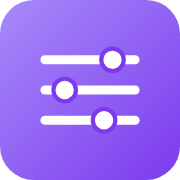
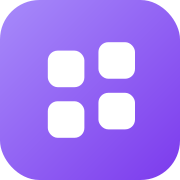
Align console identity with shared ProAppStore brand

diff --git a/web/index.html b/web/index.html
@@ -11,7 +11,7 @@
     <meta name="theme-color" content="#0f172a" media="(prefers-color-scheme: dark)" />
     <meta name="darkreader-lock" />
     <!-- Manifest is injected by vite-plugin-pwa (single source of truth in vite.config.ts). -->
-    <!-- ProAppStore brand mark: purple control-panel glyph (BRAND.md). -->
+    <!-- ProAppStore brand mark: canonical Apps symbol (BRAND.md). -->
     <link rel="icon" href="/favicon.svg" type="image/svg+xml" />
     <link rel="apple-touch-icon" href="/apple-touch-icon.png" />
     <script>
@@ -31,9 +31,9 @@
     <meta property="og:title" content="Creator Console — ProAppStore" />
     <meta property="og:description" content="Manage and build your apps on ProAppStore." />
     <meta property="og:url" content="https://console.proappstore.online/" />
-    <meta property="og:image" content="https://console.proappstore.online/icon-512.png" />
-    <meta name="twitter:card" content="summary" />
-    <meta name="twitter:image" content="https://console.proappstore.online/icon-512.png" />
+    <meta property="og:image" content="https://console.proappstore.online/og-image.png" />
+    <meta name="twitter:card" content="summary_large_image" />
+    <meta name="twitter:image" content="https://console.proappstore.online/og-image.png" />
     <!-- Structured data — exceeds the storefront's head (adopted from PAGS). -->
     <script type="application/ld+json">{"@context":"https://schema.org","@type":"WebApplication","name":"ProAppStore Creator Console","url":"https://console.proappstore.online","applicationCategory":"DeveloperApplication","description":"Manage and build your apps on ProAppStore."}</script>
   </head>

diff --git a/web/src/Header.tsx b/web/src/Header.tsx
@@ -17,6 +17,7 @@ export function Landing() {
   return (
     <div className="flex min-h-[100dvh] items-center justify-center px-4">
       <div className="text-center max-w-md">
+        <img src={`${import.meta.env.BASE_URL}favicon.svg`} width="64" height="64" alt="ProAppStore" className="mx-auto mb-5" />
         <h1 className="display-font text-4xl font-bold text-[var(--ink)]">Creator Console</h1>
         <p className="mt-4 text-[var(--muted)] text-lg">
           Sign in to manage your apps on ProAppStore.
@@ -128,6 +129,7 @@ export function Header({
             <svg width="20" height="20" viewBox="0 0 24 24" fill="none" stroke="currentColor" strokeWidth="2.5" strokeLinecap="round" strokeLinejoin="round" aria-hidden="true"><line x1="19" y1="12" x2="5" y2="12"/><polyline points="12 19 5 12 12 5"/></svg>
           ) : (
             <>
+              <img src={`${import.meta.env.BASE_URL}favicon.svg`} width="28" height="28" alt="" className="mr-2 shrink-0" />
               <span className="sm:hidden">Console</span>
               <span className="hidden sm:inline">Creator Console</span>
             </>
